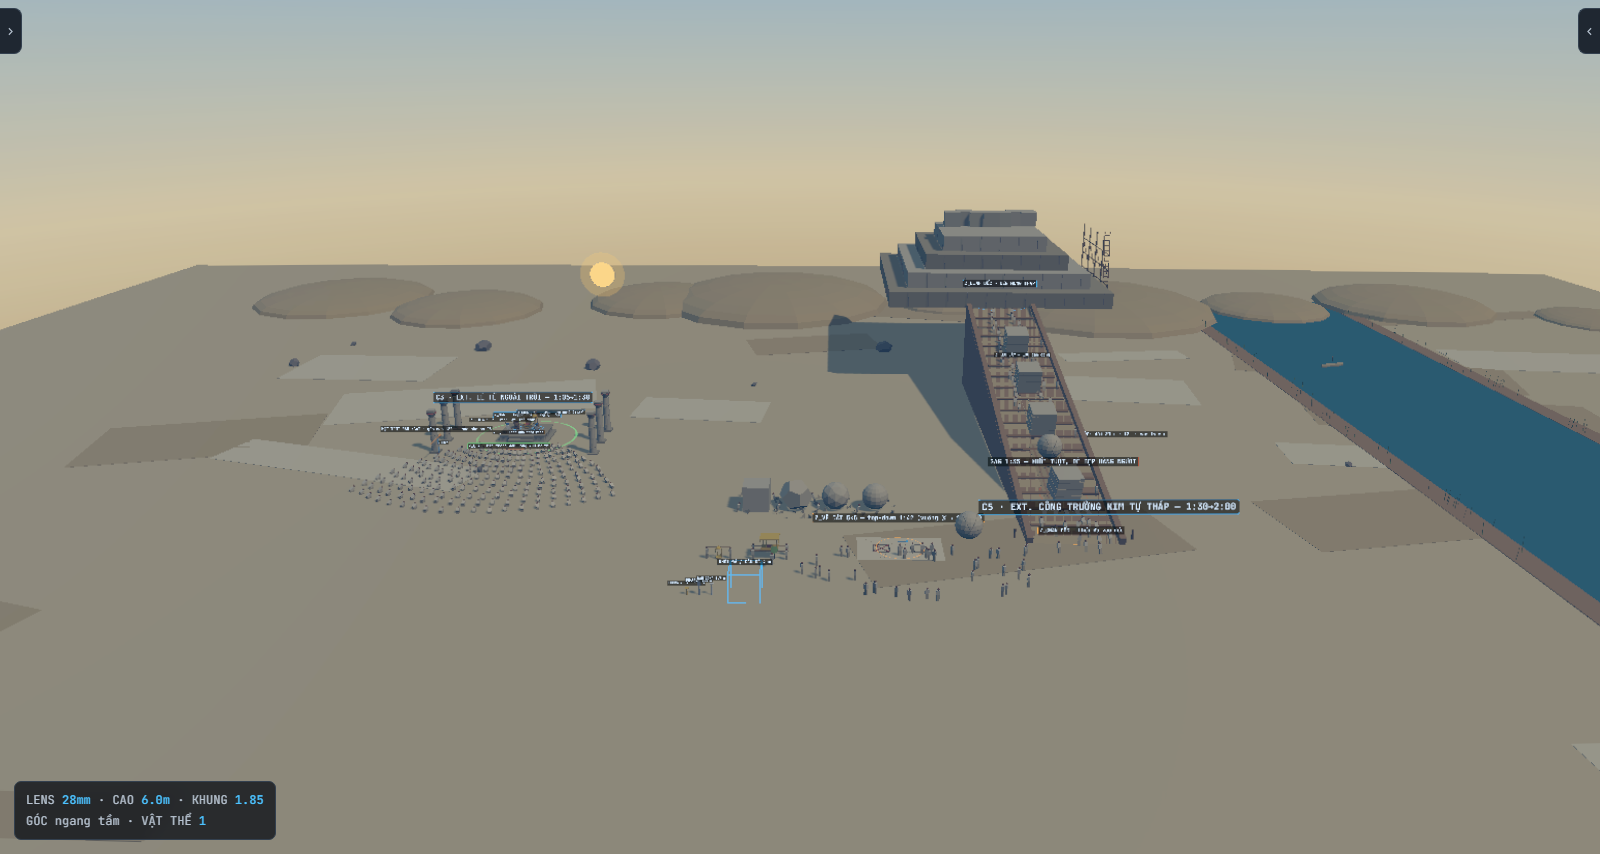
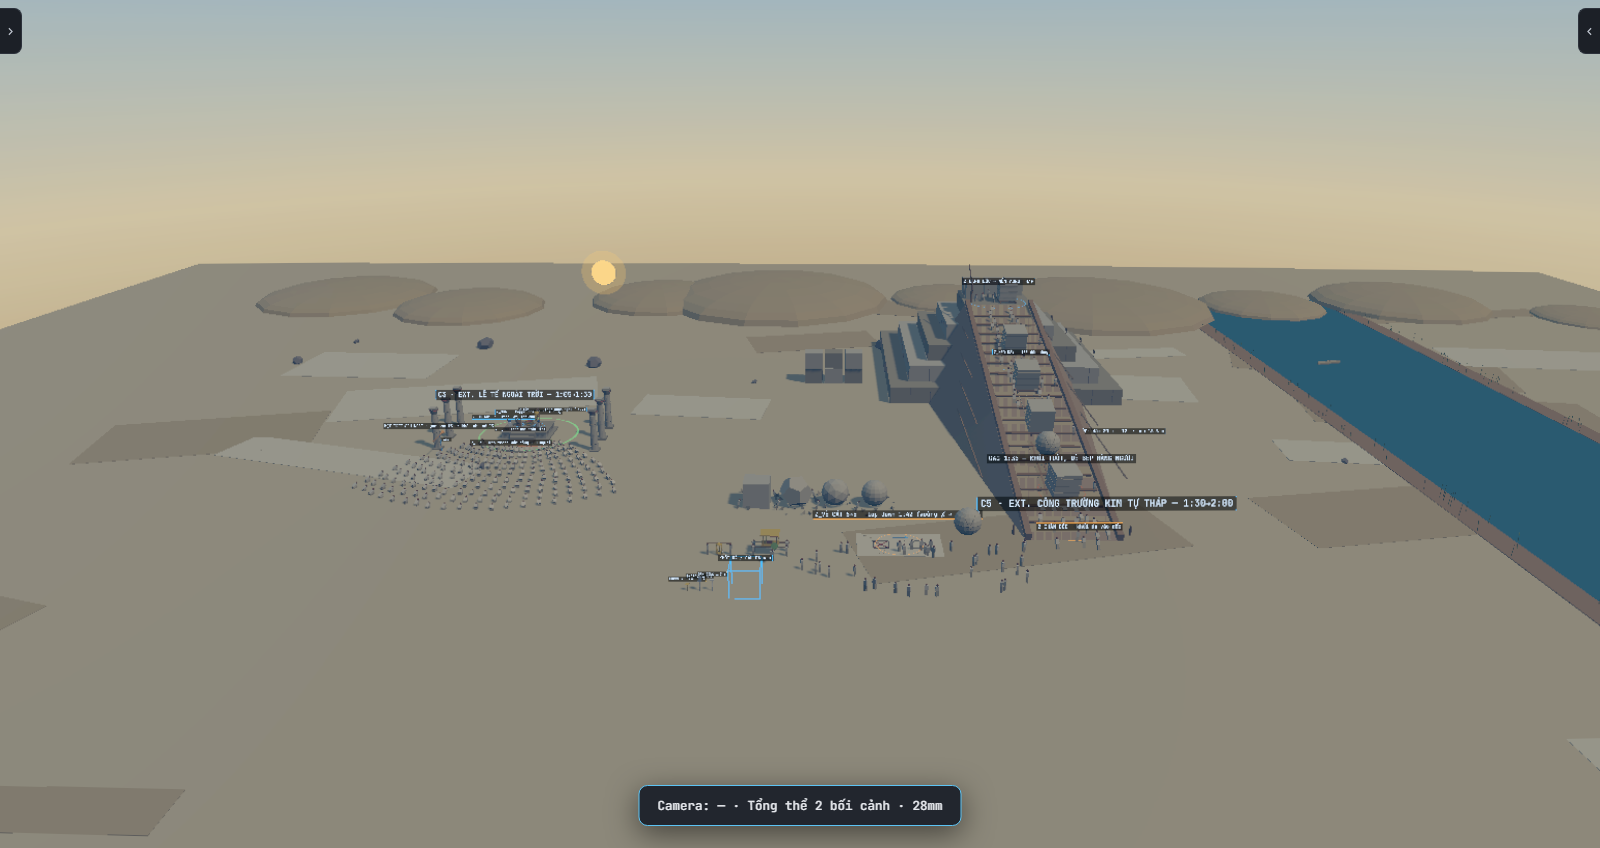
C5: kim tu thap dat tren mat dat, doc de dat vat hai ben cham dung san thi cong
Nguoi dung thay khoi cong truong "ngo", khong hinh dung ra. Hai loi hinh hoc:
1. Kim tu thap bi LO LUNG: dat o y=16.6 (ngang dinh doc) thay vi tren mat
   dat -> day thap bay tren con cat, bong do tach roi.
2. Doc la khoi TAM GIAC VACH DUNG cao 16.6 m (nhin nhu buc tuong / cau
   nhay truot tuyet), va dau doc chia vao khoang khong, khong cham thap.

Sua:
- Thap xay do DUNG TREN MAT DAT: 5 bac x 3.32 m, mat san thi cong phang
  14x14 o dung 16.6 m = dinh doc. Tren san: khoi dang dat, xe truot + khoi,
  10 dan cong, can keo go. Thang tre dua cac bac, bai tap ket khoi da o chan
- Doc thanh DE DAT NEN: mat tren nghieng 12 do, hai suon VAT 58 do xuong
  chan (khong vach dung), mau dat sang hon, vai dai gach bun tren suon
- Dat thap tai [45,0,-43] de mep truoc san thi cong trung dung dau cao doc
  (z=-36): do lech = 0
- Mat doc giu nguyen nen khoi da, dan cong, gag khoi tuot van dung vi tri

diff --git a/jenny-pixel-studio.html b/jenny-pixel-studio.html
@@ -3203,6 +3203,18 @@ function buildZonesC3(){
 const RAMP_LEN=78, RAMP_H=16.6, RAMP_W=14;
 const RAMP_A=Math.atan(RAMP_H/RAMP_LEN);        // 12°
 function rampY(z){return Math.max(0,Math.min(1,-z/RAMP_LEN))*RAMP_H;}   // z ∈ [-78..0]
+// Đê dốc đất nện: mặt trên nghiêng 12°, hai bên VÁT ~58° xuống chân (không vách đứng),
+// đầu cao tựa vào mép sàn thi công của tháp. Đầu thấp ở z=0, đầu cao ở z=-len.
+function rampEmbankment(w,len,h,c){
+  const hw=w/2,b=h/Math.tan(58*Math.PI/180);
+  const L0=[-hw,0,0],R0=[hw,0,0],LT=[-hw,h,-len],RT=[hw,h,-len],LB=[-hw-b,0,-len],RB=[hw+b,0,-len];
+  const tri=[L0,R0,RT, L0,RT,LT,  L0,LT,LB,  R0,RB,RT,  LT,RT,RB, LT,RB,LB,  L0,LB,RB, L0,RB,R0];
+  const geo=new THREE.BufferGeometry();
+  geo.setAttribute('position',new THREE.Float32BufferAttribute(tri.flat(),3));
+  geo.computeVertexNormals();
+  const m=new THREE.Mesh(geo,new THREE.MeshStandardMaterial({color:c,roughness:.92,metalness:0,flatShading:true,side:THREE.DoubleSide}));
+  m.castShadow=true;m.receiveShadow=true;return m;
+}
 function rampWedge(w,len,h,c){
   const s=new THREE.Shape();
   s.moveTo(0,0);s.lineTo(len,0);s.lineTo(len,h);s.lineTo(0,0);
@@ -3214,7 +3226,17 @@ function rampWedge(w,len,h,c){
 // DỐC KÉO ĐÁ: dài 80 m, dốc 12°, đất nện, rộng 14 m
 function buildRamp(){
   const g=new THREE.Group();
-  const w=rampWedge(RAMP_W,RAMP_LEN,RAMP_H,EG.mud);g.add(w);
+  const w=rampEmbankment(RAMP_W,RAMP_LEN,RAMP_H,'#b39571');g.add(w);
+  // lớp gạch bùn ốp hai sườn vát: vài dải ngang cho mắt đọc ra "đắp từng lớp"
+  const bat=RAMP_H/Math.tan(58*Math.PI/180);
+  for(let k=1;k<5;k++){
+    const y=RAMP_H*k/5, zEnd=-RAMP_LEN, zStart=-RAMP_LEN*k/5;   // dải ở độ cao y chạy từ chỗ mặt dốc = y tới đầu cao
+    const len=zStart-zEnd, off=bat*(1-k/5);
+    [-1,1].forEach(s=>{
+      const band=box(.25,.18,len,EG.mud);band.castShadow=false;
+      band.position.set(s*(RAMP_W/2+off*.5+.1),y,(zStart+zEnd)/2);band.rotation.z=s*.55;g.add(band);
+    });
+  }
   const SLOPE=RAMP_LEN/Math.cos(RAMP_A);
   // mặt dốc phủ cát nện sáng hơn
   const deck=box(RAMP_W-1.2,.25,SLOPE,EG.sand2);
@@ -3240,38 +3262,41 @@ function buildRamp(){
 
 // NỀN MÓNG + THÂN THÁP ĐANG XÂY trên đỉnh dốc + giàn giáo
 function buildFoundation(){
+  // Tháp xây dở ĐẶT TRÊN MẶT ĐẤT. 5 bậc × 3.32 m → mặt sàn thi công phẳng ở y = 16.6 = đúng đỉnh dốc.
+  // Gốc ở tâm đáy tháp; mép trước (+Z) của sàn thi công là chỗ đầu dốc đổ vào.
   const g=new THREE.Group();
-  const courses=[[46,3.2],[38,3.2],[30,3.2],[22,3.2]];
+  const H=RAMP_H/5, sizes=[46,38,30,22,14];
   let y=0;
-  courses.forEach(([s,h],i)=>{
-    const c=box(s,h,s,i%2?EG.stone:EG.stone2);c.position.y=y+h/2;g.add(c);
-    // đường ron khối đá
-    for(let k=-s/2+4;k<s/2;k+=4){
-      const j=box(.12,h*.96,s*1.002,EG.granite);j.position.set(k,y+h/2,0);j.material.opacity=1;g.add(j);
-      const j2=box(s*1.002,h*.96,.12,EG.granite);j2.position.set(0,y+h/2,k);g.add(j2);
+  sizes.forEach((s,i)=>{
+    const c=box(s,H,s,i%2?EG.stone:EG.stone2);c.position.y=y+H/2;g.add(c);
+    for(let k=-s/2+4;k<s/2-.5;k+=4){                 // ron khối đá 4 m
+      const j1=box(.12,H*.96,s*1.002,EG.granite);j1.position.set(k,y+H/2,0);j1.castShadow=false;g.add(j1);
+      const j2=box(s*1.002,H*.96,.12,EG.granite);j2.position.set(0,y+H/2,k);j2.castShadow=false;g.add(j2);
     }
-    y+=h;
+    y+=H;
   });
-  // lớp đang xây dở: vài khối rời trên cùng
+  // SÀN THI CÔNG (14×14) ở đỉnh: khối rời đang đặt, xe trượt, dân công, cần kéo gỗ
   const R=rnd(5);
-  for(let i=0;i<7;i++){
-    const b=box(3.6,3.2,3.6,EG.stone);
-    b.position.set(-8+i*2.9+R()*.4,y+1.6,-6+R()*3);b.rotation.y=(R()-.5)*.12;g.add(b);
+  [[-4.6,-4.6],[0,-4.6],[4.6,-4.6],[-4.6,0]].forEach(([x,z])=>{
+    const b=box(3.6,3.3,3.6,EG.stone);b.position.set(x+R()*.3,y+1.65,z+R()*.3);b.rotation.y=(R()-.5)*.1;g.add(b);
+  });
+  const sl=makeSledge();sl.position.set(2.2,y,3.4);g.add(sl);
+  const nb=makeStoneBlock(true);nb.position.set(2.2,y+.45,3.4);nb.scale.setScalar(.9);g.add(nb);
+  const top=[];for(let k=0;k<10;k++)top.push({x:-5+R()*10,y:y,z:-1+R()*6,ry:R()*6.28,lean:.2,s:.96+R()*.12});
+  g.add(peopleField(top,'stand'));
+  // cần kéo (đòn bẩy gỗ) trên góc sàn
+  const post=cyl(.2,.25,5,EG.wood,8);post.position.set(-5.5,y+2.5,5.2);g.add(post);
+  const arm=box(.2,.2,9,EG.wood2);arm.position.set(-5.5,y+5,3.2);arm.rotation.x=.45;g.add(arm);
+  // thang tre dựa các bậc phía +X
+  for(let k=0;k<4;k++){
+    const lad=new THREE.Group();
+    [-.5,.5].forEach(x=>{const r=box(.1,4.4,.1,EG.wood);r.position.set(x,2.2,0);lad.add(r);});
+    for(let q=0;q<6;q++){const st=box(1.1,.08,.08,EG.wood2);st.position.set(0,.4+q*.7,0);lad.add(st);}
+    lad.rotation.z=.3;lad.position.set(sizes[k]/2+.9,k*H,-6+k*3);lad.rotation.y=Math.PI/2;g.add(lad);
   }
-  // giàn giáo gỗ áp mặt +X
-  for(let i=0;i<4;i++){
-    const pole=cyl(.16,.16,y,EG.wood,7);pole.position.set(23.6,y/2,-9+i*6);g.add(pole);
-    for(let k=1;k<4;k++){
-      const bar=box(.14,.14,6.2,EG.wood2);bar.position.set(23.6,k*3.2,-6+i*6);g.add(bar);
-    }
-    const brace=box(.12,.12,7,EG.wood2);brace.position.set(23.6,y*.55,-6+i*6);brace.rotation.x=.7;g.add(brace);
-  }
-  // thang gỗ dựa giàn giáo
-  const ladder=new THREE.Group();
-  [-.55,.55].forEach(x=>{const r=box(.12,14,.12,EG.wood);r.position.set(x,7,0);ladder.add(r);});
-  for(let k=0;k<12;k++){const s=box(1.2,.1,.1,EG.wood2);s.position.set(0,1+k*1.1,0);ladder.add(s);}
-  ladder.rotation.x=-.2;ladder.position.set(24.4,0,11);g.add(ladder);
-  g.userData.h=y+3.2;
+  // đống khối đá chờ dưới chân tháp (bãi tập kết)
+  for(let k=0;k<6;k++){const b=box(3.6,3.3,3.6,k%2?EG.stone:EG.stone2);b.position.set(-30-(k%3)*4.2,1.65+Math.floor(k/3)*3.3,8+(k%2)*.3);g.add(b);}
+  g.userData.h=y+3.3;
   return g;
 }
 
@@ -4955,7 +4980,7 @@ const C3_PARTS=[
 ];
 const C5_PARTS=[
   {k:'c5_ramp',       p:[45,0,42]},
-  {k:'c5_foundation', p:[45,16.6,-58]},
+  {k:'c5_foundation', p:[45,0,-43]},
   {k:'c5_blocks',     p:[45,0,42]},
   {k:'c5_workers',    p:[45,0,42]},
   {k:'c5_slip',       p:[45,0,42]},
